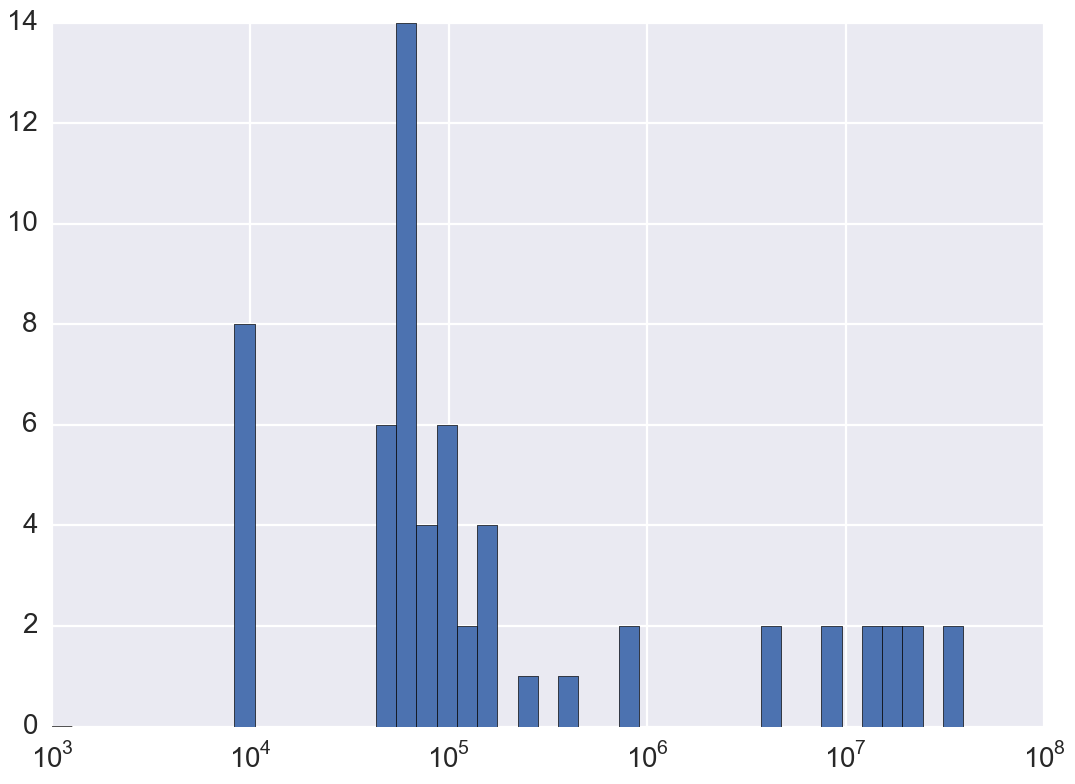
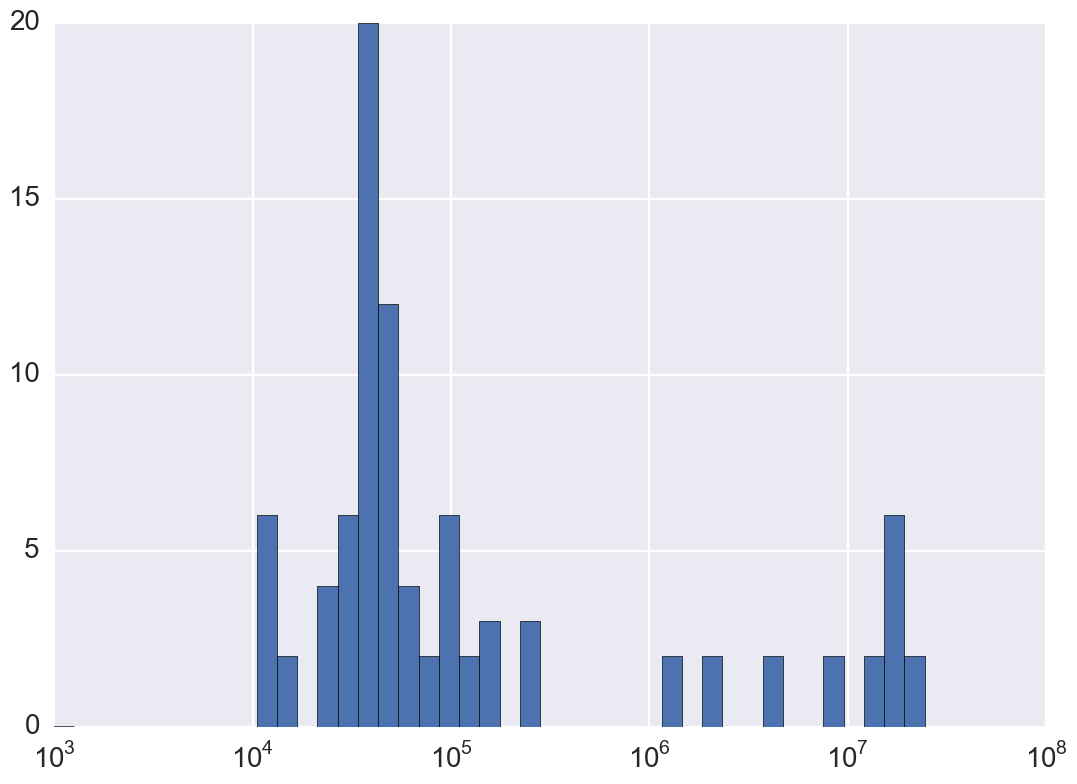
updated problem 2a and histogram to incorporate 100 partitions exactly

diff --git a/HW1/P2/P2a.py b/HW1/P2/P2a.py
@@ -26,12 +26,13 @@ def createPixels(row,column):
     return (row,column),result
 
 # this creates an RDD that constains values in the range of 0 to 2000 stepping 
-# in increments of 1
-row = sc.range(0,2000)
-column = sc.range(0,2000)
+# in increments of 1 each divided into 10 partitions so that 10*10=100 partitions
+row = sc.parallelize(range(0,2000),10)
+column = sc.parallelize(range(0,2000),10)
 
 # this creates all possible combinations of rows and columns
 joined = row.cartesian(column)
+
 
 # this maps the joined RDD into the function createPixels
 mandlebrot = joined.map(lambda rr: createPixels(rr[0],rr[1]))
@@ -49,3 +50,5 @@ sum_values=sum_values_for_partitions(mandlebrot).collect()
 plt.hist(sum_values, bins=np.logspace(3, 8))
 plt.gca().set_xscale('log')
 plt.savefig('P2a_hist.png', bbox_inches='tight')
+
+print "the number of workers are: ", len(sum_values)

diff --git a/HW1/P2/P2b.py b/HW1/P2/P2b.py
@@ -1,3 +1,20 @@
-from P2 import *
+# calling the file with all of the imports included
+execfile('P2.py')
 
-# Your code here
+import matplotlib
+import numpy as np
+import matplotlib.pyplot as plt
+import multiprocessing as mp
+import seaborn as sns
+sns.set_context('poster', font_scale=1.25)
+
+
+# initializing spark
+import pyspark as ps
+
+config = ps.SparkConf()
+config = config.setMaster('local[' + str(2*mp.cpu_count()) + ']')
+config = config.setAppName('P2b')
+
+sc = ps.SparkContext(conf=config)
+
